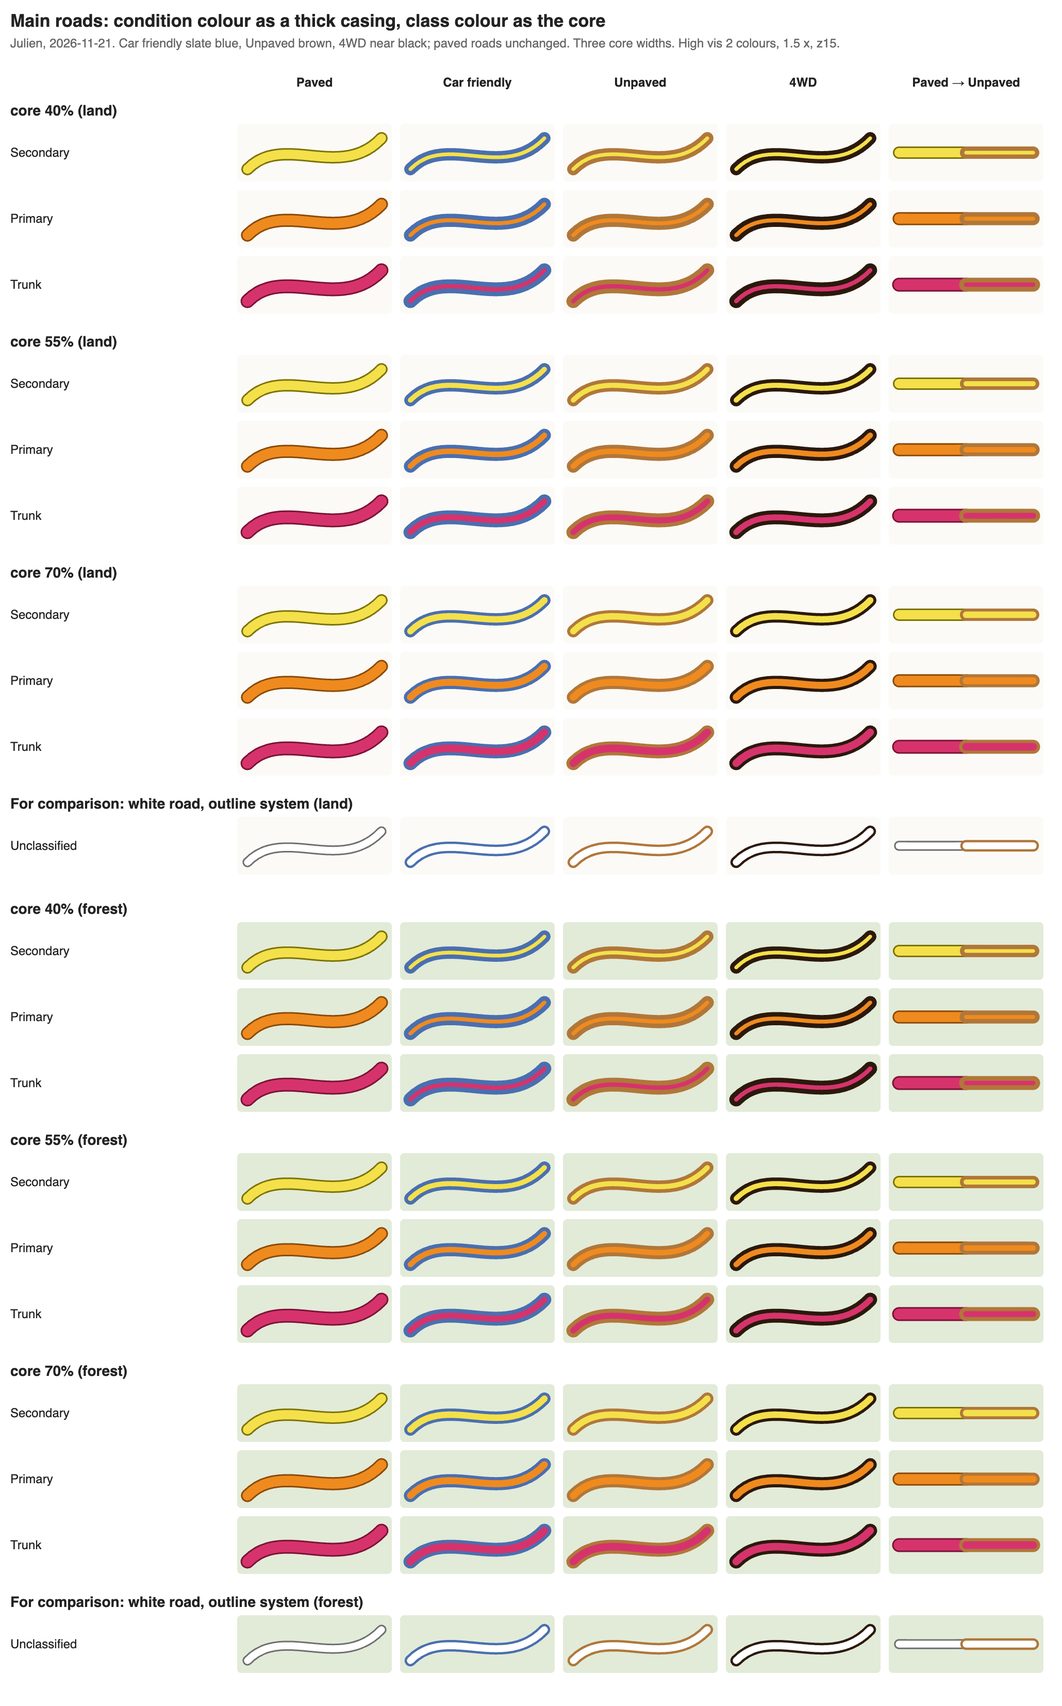
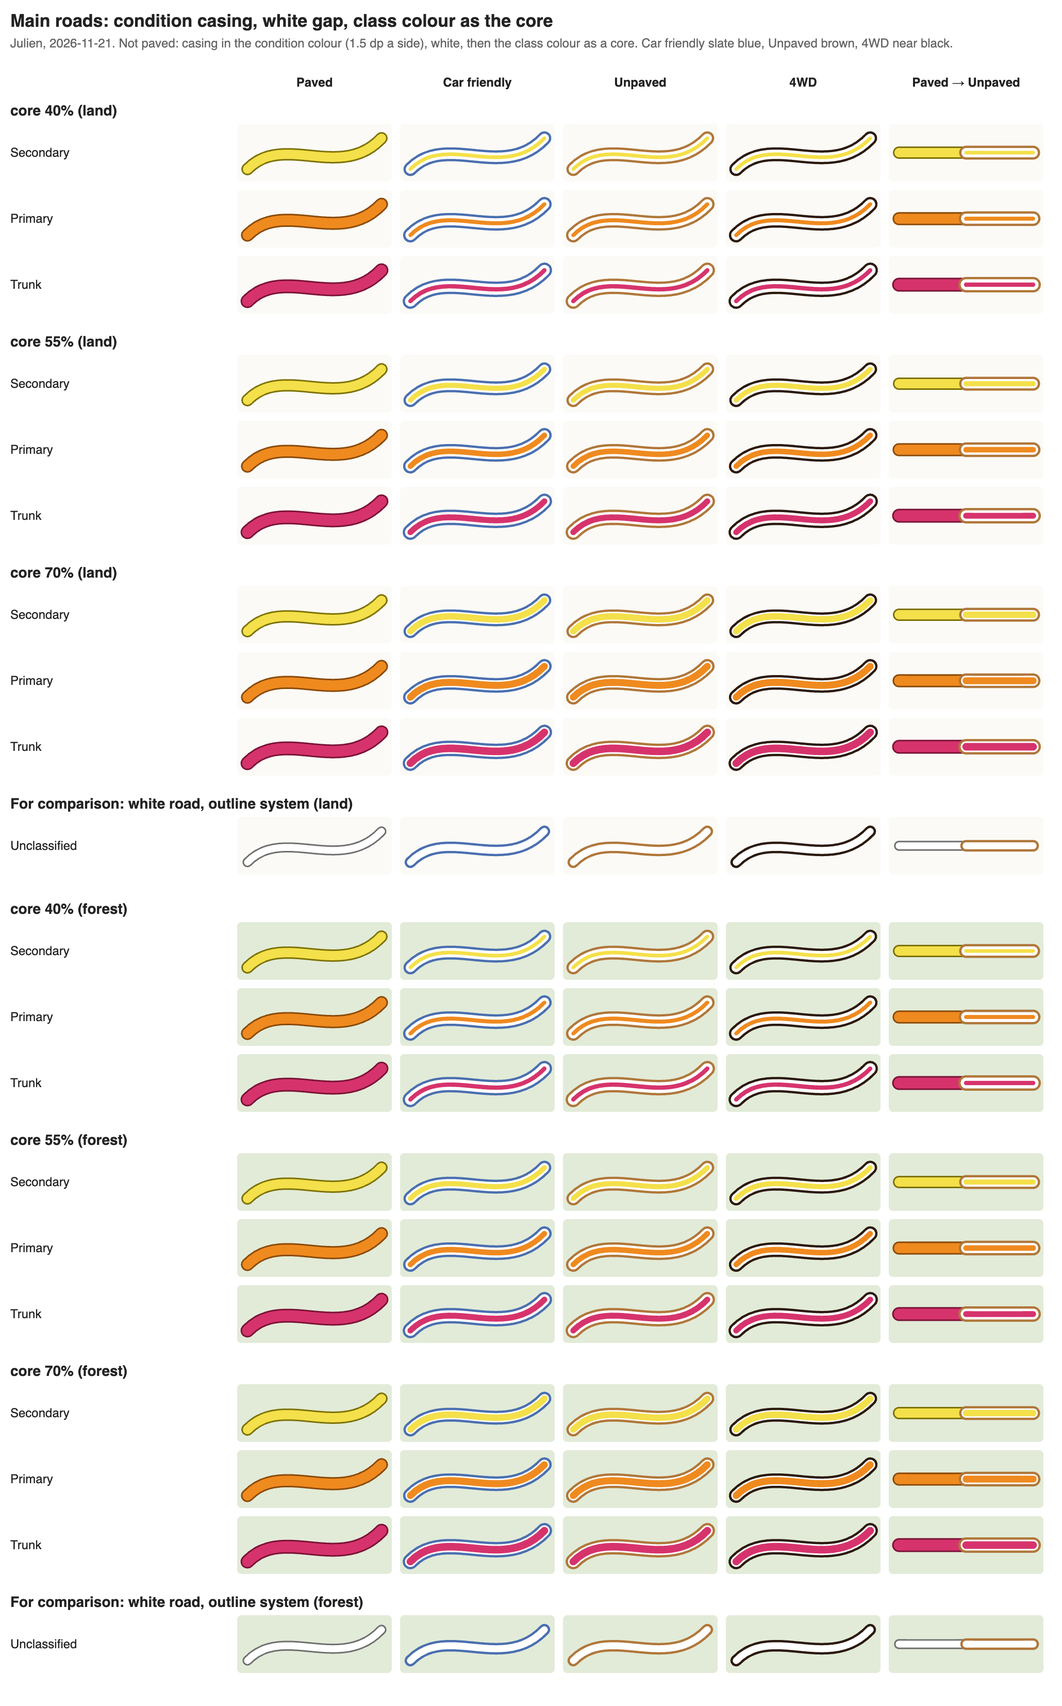
Fork: main roads with condition casing, white gap and class-colour core (40/55/70%); todo updated

diff --git a/research/todo.md b/research/todo.md
@@ -45,7 +45,7 @@ Updated 2026-11-20. Only what is still open. Settled decisions are in [decisions
 
 ## Tracks rendering
 
-- Find a mechanism for rendering unpaved roads and tracks/paths consistently together (added 2026-11-16, Julien). Starting points: the constraint and shared classifier in [E-tracks.md section 4](E-tracks.md#4-constraint-from-the-roads-work) (a road never drawn as a track, tracks unlike any Unpaved or Off-road road, one classifier for both), scheme D in [section 6.4](E-tracks.md#64-scheme-d-decisions-of-2026-11-13-julien-not-in-the-article), paved tracks drawn solid (Low priority below). Left: decide what "consistent" means (shared ramp and legend words, shared dash rhythms, or one rule mapping road class plus condition to a look), then a mockup of roads and tracks side by side in each road style. **Better mockups** (Julien, 2026-11-19): for the OsmAnd fork first (scheme D tracks, solid brown band on roads, [E-tracks.md section 6.4](E-tracks.md#64-scheme-d-decisions-of-2026-11-13-julien-not-in-the-article)), as real-data map crops instead of single swatches on a curve, so roads and tracks are seen meeting at junctions. Views from the track round ([examples/track-spots.md](examples/track-spots.md)): chiangrai (moto paths, untagged tracks), thailand-1 (every track grade, paved tracks) and a Swiss one (closed-way density); geometry in `pbf/<c>-ways.geojsonseq` (Geofabrik 2026-11-12). Covers the "Next" step of section 6.4. **Done 2026-11-19**: [mockups/fork-crop-*.png](mockups/) from `node mockups/make-fork-crops.mjs` (chiangrai, thailand-1, switzerland-2 with three closed-way styles), reading in [E-tracks.md 6.4](E-tracks.md#64-scheme-d-decisions-of-2026-11-13-julien-not-in-the-article) ("Real-data crops"). Closed ways: **grey** (Julien, 2026-11-19; solid light grey for tracks, dots for paths), drawn in the crops; OsmAnd's motorcycle routing already avoids them (E-tracks 6.4, "Routing already matches"). **Left** (Julien): decide whether paved tracks must differ from residential roads; say whether the 40% band on white roads is too light next to tracks. **Riding focus** (Julien, 2026-11-19: road riding, adventure riding with 4WD, trail riding with `dirtbike:scale` symbols): proposal drawn 2026-11-19 in [mockups/fork-focus-*.png](mockups/) and written in E-tracks 6.4 ("Riding focus", with the OsmAnd check for `dirtbike:scale`: already in the maps as `route_dirtbike`, symbols possible with dashes, dots and squares only). **Left** (Julien): check the three focus values, pick the default (Claude: Adventure), `dirtbike:scale`: not rendered for now, documented only in E-tracks 6.4 (Julien, 2026-11-19; the count-and-bar symbol set is kept there); paths now dashed grey, one grey for everything you may not ride (Julien, 2026-11-19; density check [mockups/fork-crop-switzerland-1.png](mockups/fork-crop-switzerland-1.png)): pick the grey path width, 1.75 or 1.4 dp; road casing: **B** chosen (Julien, 2026-11-19), with unclassified and tertiary darker than residential and service roads faded (private ones grey), applied to every sheet (E-tracks 6.4, "White-road hierarchy and service roads"); closed roads grey, `destination` no longer grey, driveways grey from z16, footways and cycleways hidden, Road riding without dirt tracks but with the dirt band on roads at full strength (a warning), Trail riding with paved roads at 60% (Julien, 2026-11-19; E-tracks 6.4 "Closed roads, driveways", z16 check [mockups/fork-crop-switzerland-1-z16.png](mockups/fork-crop-switzerland-1-z16.png)); **Readability** (Julien, 2026-11-19: colours hard to read, larger is better for older riders): Garmin and DMD2 review and a high-visibility palette (saturated fills, 1.5 x widths, band edge, road numbers) in [mockups/fork-hivis-*.png](mockups/), written in E-tracks 6.4 ("Readability"); Scored 2026-11-19 (`mockups/score-readability.py`): Now 3.0, High vis 6.7, **High vis 2 8.2** (crimson-rose trunk, deeper orange; colour-blind safe), AdvOSM 9.1. **High vis 2 adopted** (Julien, 2026-11-19), every sheet redrawn. **Confirmed ladder adopted** (Julien, 2026-11-20; E-tracks 6.4): tan Easy where a city car is confirmed, brown for everything not confirmed including high clearance, near black 4WD; [mockups/fork-ladder-*.png](mockups/); pale sand `#f6f1e2` and rock `#efeeeb` added to the background; Easy level by hue (Julien, 2026-11-20): tan, slate blue, purple, mauve compared in [mockups/fork-easy-*.png](mockups/); green fails for colour blindness, blue reads as water; **decided: Easy as a shape** (Julien, 2026-11-20), now **v3**: white track with brown edges, Easy roads with brown lines inside the casing (more brown = rougher); [mockups/fork-easyshape-*.png](mockups/); main roads compared 2026-11-20 ([mockups/mainroads-options.png](mockups/mainroads-options.png), [mockups/fork-main-thailand-3.png](mockups/fork-main-thailand-3.png)): main roads: inner band only (Julien, 2026-11-20), but the brown band with dark edge disliked: **b adopted** (darker class shade; white roads and tracks keep brown; Julien, 2026-11-20); design v2 options ([mockups/design-overview-v2.png](mockups/design-overview-v2.png)); **design v3, one outline system** ([mockups/design-overview-v3.png](mockups/design-overview-v3.png)): outline = condition everywhere (grey, slate blue, brown, near black), main roads pale fill and thick outline when not paved; main-road outline dropped (Julien, 2026-11-20); **main-road pattern: dotted vs dashed band compared** ([mockups/pattern-options.png](mockups/pattern-options.png)); **proposal: 40% lighter fill, Car friendly dots, Unpaved dashes, 4WD solid band; Julien to decide**; **new idea: thick condition casing with a class-colour core** ([mockups/core-options.png](mockups/core-options.png); suggestion 55% core, thin brown outline for Car friendly, darker brown on orange); then make it the default and redraw the crops ([mockups/mainroads-options.png](mockups/mainroads-options.png)); level renamed **Car friendly**; paved single tracks white dashes with grey edges; smooth single tracks white dashes with brown edges ("car friendly" does not apply to single tracks); tracks and white roads keep v3; overview sheet [mockups/design-overview.png](mockups/design-overview.png); band 40% on every class (50% in Adventure riding); smooth tracks drawn above rough ones; side-by-side sheet [mockups/easy-options.png](mockups/easy-options.png); **to fix: the brown Unpaved band almost vanishes inside the orange primary** (contrast 1.50; trunk 1.22); **left**: a desert view to test sand (none of the four views has sand; Namibia or Mongolia extract needed). Earlier: Track colours rated (about 7.5) and changed 2026-11-19: `very_horrible` tracks as near-black single tracks, band edge neutral grey; rust middle step (`#7a3a14`) drawn as a variant in [mockups/fork-ramp-thailand-1.png](mockups/fork-ramp-thailand-1.png), **Julien to decide**; score now High vis 2 7.4, with rust 7.6. Land colours researched 2026-11-19 (E-tracks 6.5 "Land colour research": Carto, OsmAnd default, Motorcycle, AdvOSM, Gaia, Komoot, contrast of the fork colours on land and forest); proposal land `#fbfaf6`, forest `#e2ebd8`; drawn on real landcover 2026-11-19 ([mockups/fork-land-*.png](mockups/)): Carto's forest hides tracks and grey, Motorcycle and the proposal keep them; **proposal adopted** (Julien, 2026-11-19). **The style is Julien's own version, not a fork of the GPL v3 Motorcycle plugin** (E-tracks 6.5): no code or values copied; check the OsmAnd-resources licence exceptions before reusing anything from `default.render.xml`; **minimal, no fork** (Julien, 2026-11-19): an override-only style on `depends="default"`; **next**: test style in `osmand-render` with only the band and the brown track ramp on thailand-1; **Water and fords** (2026-11-19, E-tracks 6.5): rivers inherited and recoloured, fords and bridges inherited, check the ford icon in the test render; Julien to confirm. **Hillshade and contours: waiting for Julien** (E-tracks 6.5, plan): (1) fix GDAL with `brew upgrade gdal` or go without it, (2) OK to download four Copernicus DEM tiles; then variants A, B, C on thailand-1 and switzerland-2. hillshade and contours still to do (no elevation data yet). **Next to make it better** (E-tracks 6.4, "How to make it better"): phone test outdoors, reader test round 3 with riders, thinner towns, z10 to 13, tracks a little wider, shields, night; motorways to add (not in the extract); then the missing list there in order (fuel, z10 to 13, fords, place names, hillshade, night, blocking barriers at z16+; barriers otherwise not drawn, Julien). Then redraw [mockups/picks-combined.png](mockups/picks-combined.png) with grey closed ways, choose the night grey, night crops, and a forest background once landuse is extracted.
+- Find a mechanism for rendering unpaved roads and tracks/paths consistently together (added 2026-11-16, Julien). Starting points: the constraint and shared classifier in [E-tracks.md section 4](E-tracks.md#4-constraint-from-the-roads-work) (a road never drawn as a track, tracks unlike any Unpaved or Off-road road, one classifier for both), scheme D in [section 6.4](E-tracks.md#64-scheme-d-decisions-of-2026-11-13-julien-not-in-the-article), paved tracks drawn solid (Low priority below). Left: decide what "consistent" means (shared ramp and legend words, shared dash rhythms, or one rule mapping road class plus condition to a look), then a mockup of roads and tracks side by side in each road style. **Better mockups** (Julien, 2026-11-19): for the OsmAnd fork first (scheme D tracks, solid brown band on roads, [E-tracks.md section 6.4](E-tracks.md#64-scheme-d-decisions-of-2026-11-13-julien-not-in-the-article)), as real-data map crops instead of single swatches on a curve, so roads and tracks are seen meeting at junctions. Views from the track round ([examples/track-spots.md](examples/track-spots.md)): chiangrai (moto paths, untagged tracks), thailand-1 (every track grade, paved tracks) and a Swiss one (closed-way density); geometry in `pbf/<c>-ways.geojsonseq` (Geofabrik 2026-11-12). Covers the "Next" step of section 6.4. **Done 2026-11-19**: [mockups/fork-crop-*.png](mockups/) from `node mockups/make-fork-crops.mjs` (chiangrai, thailand-1, switzerland-2 with three closed-way styles), reading in [E-tracks.md 6.4](E-tracks.md#64-scheme-d-decisions-of-2026-11-13-julien-not-in-the-article) ("Real-data crops"). Closed ways: **grey** (Julien, 2026-11-19; solid light grey for tracks, dots for paths), drawn in the crops; OsmAnd's motorcycle routing already avoids them (E-tracks 6.4, "Routing already matches"). **Left** (Julien): decide whether paved tracks must differ from residential roads; say whether the 40% band on white roads is too light next to tracks. **Riding focus** (Julien, 2026-11-19: road riding, adventure riding with 4WD, trail riding with `dirtbike:scale` symbols): proposal drawn 2026-11-19 in [mockups/fork-focus-*.png](mockups/) and written in E-tracks 6.4 ("Riding focus", with the OsmAnd check for `dirtbike:scale`: already in the maps as `route_dirtbike`, symbols possible with dashes, dots and squares only). **Left** (Julien): check the three focus values, pick the default (Claude: Adventure), `dirtbike:scale`: not rendered for now, documented only in E-tracks 6.4 (Julien, 2026-11-19; the count-and-bar symbol set is kept there); paths now dashed grey, one grey for everything you may not ride (Julien, 2026-11-19; density check [mockups/fork-crop-switzerland-1.png](mockups/fork-crop-switzerland-1.png)): pick the grey path width, 1.75 or 1.4 dp; road casing: **B** chosen (Julien, 2026-11-19), with unclassified and tertiary darker than residential and service roads faded (private ones grey), applied to every sheet (E-tracks 6.4, "White-road hierarchy and service roads"); closed roads grey, `destination` no longer grey, driveways grey from z16, footways and cycleways hidden, Road riding without dirt tracks but with the dirt band on roads at full strength (a warning), Trail riding with paved roads at 60% (Julien, 2026-11-19; E-tracks 6.4 "Closed roads, driveways", z16 check [mockups/fork-crop-switzerland-1-z16.png](mockups/fork-crop-switzerland-1-z16.png)); **Readability** (Julien, 2026-11-19: colours hard to read, larger is better for older riders): Garmin and DMD2 review and a high-visibility palette (saturated fills, 1.5 x widths, band edge, road numbers) in [mockups/fork-hivis-*.png](mockups/), written in E-tracks 6.4 ("Readability"); Scored 2026-11-19 (`mockups/score-readability.py`): Now 3.0, High vis 6.7, **High vis 2 8.2** (crimson-rose trunk, deeper orange; colour-blind safe), AdvOSM 9.1. **High vis 2 adopted** (Julien, 2026-11-19), every sheet redrawn. **Confirmed ladder adopted** (Julien, 2026-11-20; E-tracks 6.4): tan Easy where a city car is confirmed, brown for everything not confirmed including high clearance, near black 4WD; [mockups/fork-ladder-*.png](mockups/); pale sand `#f6f1e2` and rock `#efeeeb` added to the background; Easy level by hue (Julien, 2026-11-20): tan, slate blue, purple, mauve compared in [mockups/fork-easy-*.png](mockups/); green fails for colour blindness, blue reads as water; **decided: Easy as a shape** (Julien, 2026-11-20), now **v3**: white track with brown edges, Easy roads with brown lines inside the casing (more brown = rougher); [mockups/fork-easyshape-*.png](mockups/); main roads compared 2026-11-20 ([mockups/mainroads-options.png](mockups/mainroads-options.png), [mockups/fork-main-thailand-3.png](mockups/fork-main-thailand-3.png)): main roads: inner band only (Julien, 2026-11-20), but the brown band with dark edge disliked: **b adopted** (darker class shade; white roads and tracks keep brown; Julien, 2026-11-20); design v2 options ([mockups/design-overview-v2.png](mockups/design-overview-v2.png)); **design v3, one outline system** ([mockups/design-overview-v3.png](mockups/design-overview-v3.png)): outline = condition everywhere (grey, slate blue, brown, near black), main roads pale fill and thick outline when not paved; main-road outline dropped (Julien, 2026-11-20); **main-road pattern: dotted vs dashed band compared** ([mockups/pattern-options.png](mockups/pattern-options.png)); **proposal: 40% lighter fill, Car friendly dots, Unpaved dashes, 4WD solid band; Julien to decide**; **new idea: condition casing, white gap, class-colour core** ([mockups/core-options.png](mockups/core-options.png); proposal 55% core; Car friendly outline colour still open: blue reads as a route); then make it the default and redraw the crops ([mockups/mainroads-options.png](mockups/mainroads-options.png)); level renamed **Car friendly**; paved single tracks white dashes with grey edges; smooth single tracks white dashes with brown edges ("car friendly" does not apply to single tracks); tracks and white roads keep v3; overview sheet [mockups/design-overview.png](mockups/design-overview.png); band 40% on every class (50% in Adventure riding); smooth tracks drawn above rough ones; side-by-side sheet [mockups/easy-options.png](mockups/easy-options.png); **to fix: the brown Unpaved band almost vanishes inside the orange primary** (contrast 1.50; trunk 1.22); **left**: a desert view to test sand (none of the four views has sand; Namibia or Mongolia extract needed). Earlier: Track colours rated (about 7.5) and changed 2026-11-19: `very_horrible` tracks as near-black single tracks, band edge neutral grey; rust middle step (`#7a3a14`) drawn as a variant in [mockups/fork-ramp-thailand-1.png](mockups/fork-ramp-thailand-1.png), **Julien to decide**; score now High vis 2 7.4, with rust 7.6. Land colours researched 2026-11-19 (E-tracks 6.5 "Land colour research": Carto, OsmAnd default, Motorcycle, AdvOSM, Gaia, Komoot, contrast of the fork colours on land and forest); proposal land `#fbfaf6`, forest `#e2ebd8`; drawn on real landcover 2026-11-19 ([mockups/fork-land-*.png](mockups/)): Carto's forest hides tracks and grey, Motorcycle and the proposal keep them; **proposal adopted** (Julien, 2026-11-19). **The style is Julien's own version, not a fork of the GPL v3 Motorcycle plugin** (E-tracks 6.5): no code or values copied; check the OsmAnd-resources licence exceptions before reusing anything from `default.render.xml`; **minimal, no fork** (Julien, 2026-11-19): an override-only style on `depends="default"`; **next**: test style in `osmand-render` with only the band and the brown track ramp on thailand-1; **Water and fords** (2026-11-19, E-tracks 6.5): rivers inherited and recoloured, fords and bridges inherited, check the ford icon in the test render; Julien to confirm. **Hillshade and contours: waiting for Julien** (E-tracks 6.5, plan): (1) fix GDAL with `brew upgrade gdal` or go without it, (2) OK to download four Copernicus DEM tiles; then variants A, B, C on thailand-1 and switzerland-2. hillshade and contours still to do (no elevation data yet). **Next to make it better** (E-tracks 6.4, "How to make it better"): phone test outdoors, reader test round 3 with riders, thinner towns, z10 to 13, tracks a little wider, shields, night; motorways to add (not in the extract); then the missing list there in order (fuel, z10 to 13, fords, place names, hillshade, night, blocking barriers at z16+; barriers otherwise not drawn, Julien). Then redraw [mockups/picks-combined.png](mockups/picks-combined.png) with grey closed ways, choose the night grey, night crops, and a forest background once landuse is extracted.
 
 ## Low priority
 

diff --git a/research/E-tracks.md b/research/E-tracks.md
@@ -348,7 +348,7 @@ Score after these changes (a new measure, ramp steps apart, added; the scores ar
 
 **Main roads: no outline, a pattern (Julien, 2026-11-20).** The condition outline works on white roads and tracks but not on coloured roads: Julien did not like it, and a coloured outline (blue above all) is how navigation apps highlight the active route. Patterns compared in [mockups/pattern-options.png](mockups/pattern-options.png) (`node mockups/make-pattern-options.mjs`): dotted band and dashed band in a darker shade of the class colour (Car friendly sparse, Unpaved dense, 4WD a near-black band), on the High vis 2 fill and on a fill 40% lighter, land and forest. Reading (Claude): dots are quiet but dense dots fade on yellow, and sparse against dense differ only by spacing; dashes are stronger on every class and are the convention (the article's style 3, Americana), and inside a road between the class edges they do not read as a single track; the 40% lighter fill helps both. Proposal: on the 40% lighter fill, Car friendly sparse dots, Unpaved dashes, 4WD solid near-black band (dots, dashes, solid: the line fills in as the road gets rougher). Julien to decide.
 
-**Main roads: condition as a thick casing, class as the core (Julien, 2026-11-21).** When not paved, the condition colour fills the whole road width and the class colour is a core of 40, 55 or 70% of the fill: [mockups/core-options.png](mockups/core-options.png) (`node mockups/make-core-options.mjs`), with a paved-to-unpaved transition along one road and a white road for comparison. It is the outline system of white roads with a thicker outline, so one rule for every road. Reading (Claude): 55% balances condition and class; 40% makes the road brown with a coloured stripe; 70% is close to the thin outline Julien disliked; 4WD (black with a coloured core) is very strong. Weak points: on the orange primary the brown is close in hue, so the change is weakest there; the thick slate-blue Car friendly outline looks like the route OsmAnd draws in blue. Suggestion: 55% core; Car friendly main roads with a thin brown outline (1 dp) instead of blue (thin brown = a car passes, thick brown = Unpaved, thick black = 4WD); a darker brown on the orange primary. Julien to decide.
+**Main roads: condition casing, white gap, class-colour core (Julien, 2026-11-21).** Julien meant the inner band with a white gap between it and the casing: when not paved, the road is drawn like an unpaved white road in the outline system (condition casing 1.5 dp a side, white fill) with the class colour as a core of 40, 55 or 70% of the fill, now in [mockups/core-options.png](mockups/core-options.png). Reading (Claude): one rule for every road (outline = condition, white = not paved, core = class on main roads); the white gap separates the brown from the orange, so the unpaved primary is now clearly apart from the paved one; the paved-to-unpaved change is sharp on all three classes; 55% balances (40% thins the yellow stripe, 70% nearly closes the gap). Still open: the slate-blue Car friendly outline looks like OsmAnd's blue route; a thin brown outline would avoid it. Proposal: 55% core. Julien to decide. The version without the gap, drawn first:  When not paved, the condition colour fills the whole road width and the class colour is a core of 40, 55 or 70% of the fill: [mockups/core-options.png](mockups/core-options.png) (`node mockups/make-core-options.mjs`), with a paved-to-unpaved transition along one road and a white road for comparison. It is the outline system of white roads with a thicker outline, so one rule for every road. Reading (Claude): 55% balances condition and class; 40% makes the road brown with a coloured stripe; 70% is close to the thin outline Julien disliked; 4WD (black with a coloured core) is very strong. Weak points: on the orange primary the brown is close in hue, so the change is weakest there; the thick slate-blue Car friendly outline looks like the route OsmAnd draws in blue. Suggestion: 55% core; Car friendly main roads with a thin brown outline (1 dp) instead of blue (thin brown = a car passes, thick brown = Unpaved, thick black = 4WD); a darker brown on the orange primary. Julien to decide.
 
 **Single tracks (Julien, 2026-11-20):** "car friendly" makes no sense on a single track, so there the level reads **smooth** (same tags: smoothness bad or better, grade1 or 2, compacted, fine_gravel): white dashes with brown edges, as the car-friendly track but dashed; paved single tracks white dashes with grey edges; unpaved brown dashes; the roughest near-black dashes. **Decision (Julien, 2026-11-20): b on main roads** (shade 35% toward black; measured contrast against the fill: secondary 2.35, primary 2.15, trunk 1.89, the trunk relying partly on the hue). **White roads keep brown** (Car friendly brown inner edges, Unpaved brown band, 4WD near-black band): the darker shade of white is grey, which means "may not ride", and white roads belong with the brown dirt network that tracks join. Rule: a coloured class marks dirt in a darker shade of itself; neutral ways (white roads, tracks) mark it in brown. Overview of the whole design, minor ways against main roads and the grey: [mockups/design-overview.png](mockups/design-overview.png). White roads, 4WD: a near-black band in the middle, not black edges (Julien asked, 2026-11-20): black just inside the dark grey unclassified casing would read as a heavier casing, i.e. a more important road, and 4WD needs the strongest mark.
 - **Decision (Julien, 2026-11-20): band 40% on every class** (was 60% on coloured roads, 75% in Adventure riding, now 50% there): at 60% the class colour hardly showed on main roads. At 1.5 x widths 40% is about a track's width on main roads (3.6 to 4.2 dp).
